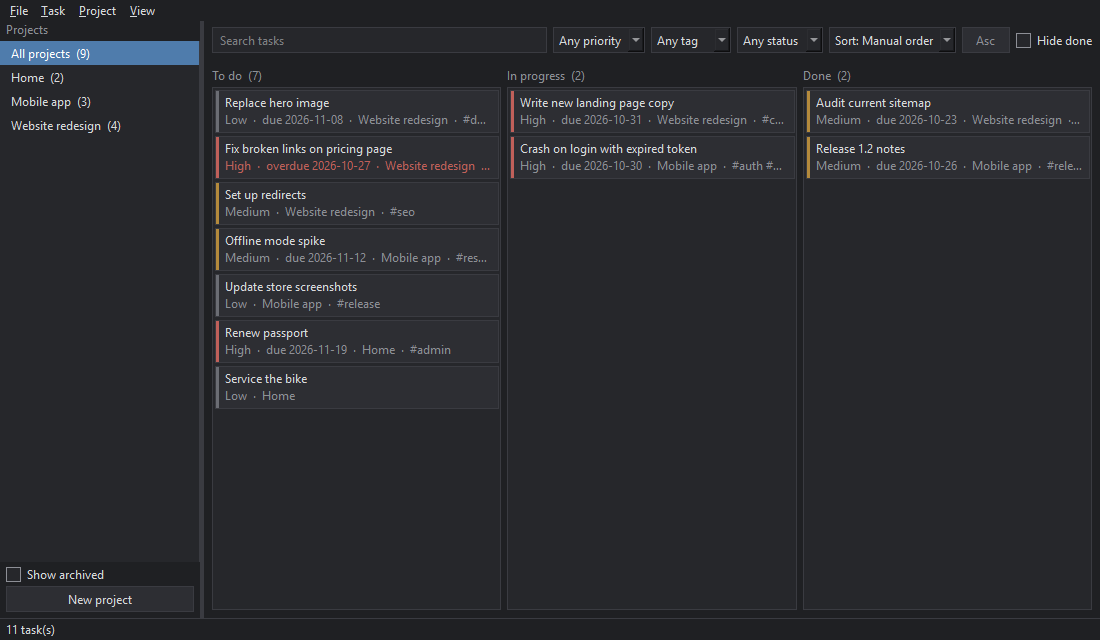
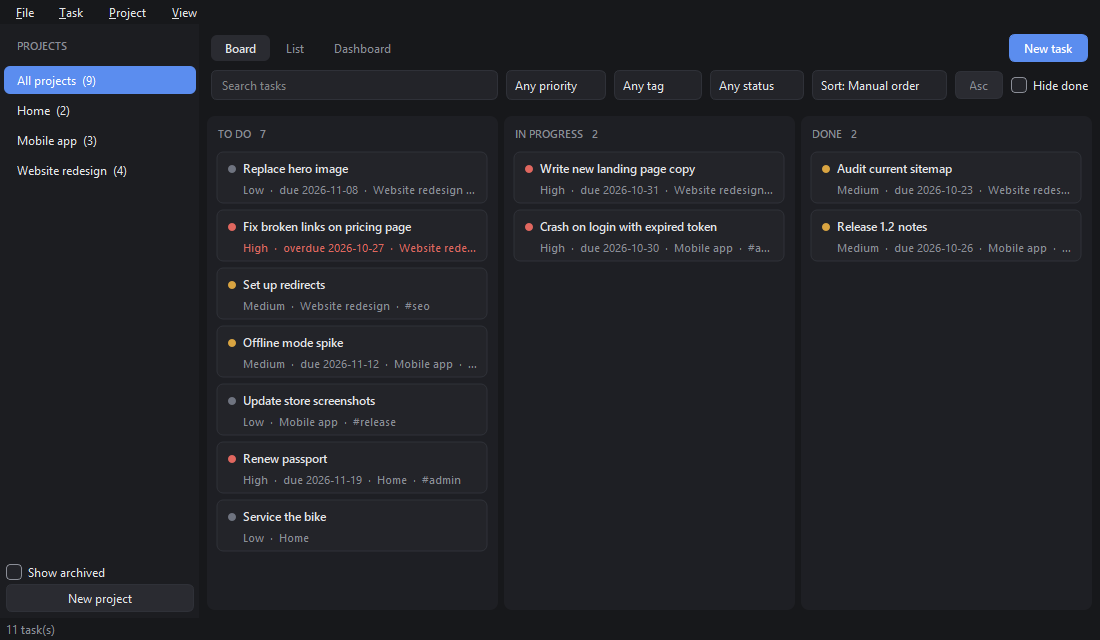
Refresh UI: toolbar view switch, rounded cards, column panels, softer theme

diff --git a/taskflow/ui/theme.py b/taskflow/ui/theme.py
@@ -5,68 +5,87 @@ from PySide6.QtGui import QFont
 from PySide6.QtWidgets import QApplication
 
 PALETTES: dict[str, dict[str, str]] = {
-    "Dark": dict(window="#1f2023", base="#26272b", alt="#2d2e33", text="#d8d9dc", muted="#8d8f96",
-                 border="#3a3b41", accent="#4f7cac", accent_text="#ffffff", danger="#c0605a",
-                 warn="#b48a3c", low="#6b6d74"),
-    "Graphite": dict(window="#2b2b2b", base="#323232", alt="#3a3a3a", text="#dcdcdc", muted="#9a9a9a",
-                     border="#454545", accent="#6a8f6a", accent_text="#ffffff", danger="#c26a5f",
-                     warn="#b8914a", low="#777777"),
-    "Light": dict(window="#f1f1f2", base="#ffffff", alt="#f7f7f8", text="#222326", muted="#6c6e75",
-                  border="#cfd0d4", accent="#3b6ea5", accent_text="#ffffff", danger="#b3433c",
-                  warn="#946f1f", low="#9a9ca3"),
+    "Dark": dict(window="#17181b", sidebar="#1c1d21", panel="#1e1f24", base="#232429", alt="#2a2b31",
+                 hover="#30323a", text="#e4e5e8", muted="#8b8e97", border="#2f3138", accent="#5b8def",
+                 accent_text="#ffffff", danger="#e0675f", warn="#d9a441", low="#6f7480"),
+    "Graphite": dict(window="#232323", sidebar="#282828", panel="#2a2a2a", base="#303030", alt="#383838",
+                     hover="#424242", text="#e6e6e6", muted="#9a9a9a", border="#3d3d3d", accent="#5fa586",
+                     accent_text="#ffffff", danger="#e0705f", warn="#d9a441", low="#7a7a7a"),
+    "Light": dict(window="#f5f6f8", sidebar="#eceef2", panel="#eceef2", base="#ffffff", alt="#ffffff",
+                  hover="#e4e7ec", text="#1d2026", muted="#6b7280", border="#d9dce2", accent="#3b73e0",
+                  accent_text="#ffffff", danger="#cc4b43", warn="#b07d12", low="#9aa0ab"),
 }
 
 
 def apply_theme(app: QApplication, name: str) -> dict[str, str]:
     c = PALETTES.get(name, PALETTES["Dark"])
     app.setStyle("Fusion")
-    font = QFont(app.font())
-    font.setPointSize(9)
+    font = QFont("Segoe UI", 10)
+    font.setStyleHint(QFont.SansSerif)
     app.setFont(font)
     app.setStyleSheet(f"""
     QWidget {{ background: {c['window']}; color: {c['text']}; }}
     QLabel {{ background: transparent; }}
     QLabel#muted {{ color: {c['muted']}; }}
-    QLabel#statValue {{ font-size: 15pt; }}
-    QFrame#tile {{ background: {c['base']}; border: 1px solid {c['border']}; border-radius: 3px; }}
+    QLabel#section {{ color: {c['muted']}; font-size: 8pt; font-weight: 600; padding: 2px 0; }}
+    QLabel#statValue {{ font-size: 18pt; font-weight: 600; }}
+    QFrame#tile {{ background: {c['base']}; border: 1px solid {c['border']}; border-radius: 8px; }}
     QFrame#tile QLabel {{ background: transparent; }}
+    QWidget#sidebarBox {{ background: {c['sidebar']}; }}
+    QWidget#toolbar, QWidget#filterBar {{ background: {c['window']}; }}
+    QWidget#columnPanel {{ background: {c['panel']}; border-radius: 8px; }}
+    QWidget#columnPanel QLabel {{ background: transparent; }}
     QLineEdit, QPlainTextEdit, QComboBox, QDateEdit, QKeySequenceEdit {{
-        background: {c['base']}; border: 1px solid {c['border']}; padding: 3px 5px;
+        background: {c['base']}; border: 1px solid {c['border']}; border-radius: 6px; padding: 5px 8px;
         selection-background-color: {c['accent']}; selection-color: {c['accent_text']}; }}
     QLineEdit:focus, QPlainTextEdit:focus, QComboBox:focus, QDateEdit:focus {{ border-color: {c['accent']}; }}
+    QComboBox::drop-down {{ border: none; width: 18px; }}
     QComboBox QAbstractItemView {{ background: {c['base']}; selection-background-color: {c['accent']};
-        selection-color: {c['accent_text']}; border: 1px solid {c['border']}; }}
-    QListWidget, QTableWidget {{ background: {c['base']}; border: 1px solid {c['border']};
+        selection-color: {c['accent_text']}; border: 1px solid {c['border']}; outline: 0; }}
+    QListWidget, QTableWidget {{ background: {c['base']}; border: 1px solid {c['border']}; border-radius: 8px;
         alternate-background-color: {c['alt']}; gridline-color: {c['border']}; outline: 0; }}
-    QListWidget#sidebar {{ border: none; border-right: 1px solid {c['border']}; }}
-    QListWidget#sidebar::item {{ padding: 4px 8px; }}
-    QListWidget#sidebar::item:selected, QTableWidget::item:selected {{
-        background: {c['accent']}; color: {c['accent_text']}; }}
-    QHeaderView::section {{ background: {c['alt']}; color: {c['muted']}; border: none;
-        border-right: 1px solid {c['border']}; border-bottom: 1px solid {c['border']}; padding: 4px 6px; }}
-    QPushButton {{ background: {c['alt']}; border: 1px solid {c['border']}; padding: 4px 12px; }}
-    QPushButton:hover {{ border-color: {c['muted']}; }}
-    QPushButton:default {{ background: {c['accent']}; color: {c['accent_text']}; border-color: {c['accent']}; }}
+    QListWidget#column {{ background: transparent; border: none; }}
+    QListWidget#sidebar {{ background: {c['sidebar']}; border: none; border-radius: 0; padding: 4px; }}
+    QListWidget#sidebar::item {{ padding: 6px 10px; border-radius: 6px; margin: 1px 0; }}
+    QListWidget#sidebar::item:hover {{ background: {c['hover']}; }}
+    QListWidget#sidebar::item:selected {{ background: {c['accent']}; color: {c['accent_text']}; }}
+    QTableWidget::item {{ padding: 4px 6px; }}
+    QTableWidget::item:selected {{ background: {c['accent']}; color: {c['accent_text']}; }}
+    QHeaderView::section {{ background: {c['base']}; color: {c['muted']}; border: none;
+        border-bottom: 1px solid {c['border']}; padding: 6px 8px; font-weight: 600; }}
+    QPushButton {{ background: {c['alt']}; border: 1px solid {c['border']}; border-radius: 6px; padding: 5px 14px; }}
+    QPushButton:hover {{ background: {c['hover']}; }}
+    QPushButton:default, QPushButton#primary {{ background: {c['accent']}; color: {c['accent_text']};
+        border-color: {c['accent']}; font-weight: 600; }}
+    QPushButton#primary:hover {{ background: {c['accent']}; border-color: {c['text']}; }}
     QPushButton:disabled {{ color: {c['muted']}; }}
+    QPushButton#seg {{ background: transparent; border: none; border-radius: 6px; padding: 5px 14px;
+        color: {c['muted']}; }}
+    QPushButton#seg:hover {{ background: {c['hover']}; color: {c['text']}; }}
+    QPushButton#seg:checked {{ background: {c['alt']}; color: {c['text']}; font-weight: 600; }}
     QCheckBox {{ background: transparent; spacing: 6px; }}
-    QCheckBox::indicator {{ width: 13px; height: 13px; background: {c['base']}; border: 1px solid {c['muted']}; }}
+    QCheckBox::indicator {{ width: 14px; height: 14px; background: {c['base']}; border: 1px solid {c['muted']};
+        border-radius: 4px; }}
     QCheckBox::indicator:checked {{ background: {c['accent']}; border-color: {c['accent']}; }}
-    QTableWidget::indicator {{ width: 13px; height: 13px; background: {c['window']}; border: 1px solid {c['muted']}; }}
+    QTableWidget::indicator {{ width: 14px; height: 14px; background: {c['window']}; border: 1px solid {c['muted']};
+        border-radius: 4px; }}
     QTableWidget::indicator:checked {{ background: {c['accent']}; border-color: {c['accent']}; }}
     QMenuBar {{ background: {c['window']}; }}
+    QMenuBar::item {{ padding: 4px 10px; border-radius: 4px; }}
     QMenuBar::item:selected, QMenu::item:selected {{ background: {c['accent']}; color: {c['accent_text']}; }}
-    QMenu {{ background: {c['base']}; border: 1px solid {c['border']}; }}
-    QMenu::item {{ padding: 4px 22px 4px 18px; }}
+    QMenu {{ background: {c['base']}; border: 1px solid {c['border']}; padding: 4px; }}
+    QMenu::item {{ padding: 5px 24px 5px 18px; border-radius: 4px; }}
     QMenu::item:disabled {{ color: {c['muted']}; }}
-    QMenu::separator {{ height: 1px; background: {c['border']}; margin: 3px 0; }}
-    QStatusBar {{ border-top: 1px solid {c['border']}; }}
-    QProgressBar {{ background: {c['base']}; border: 1px solid {c['border']}; text-align: center; height: 14px; }}
-    QProgressBar::chunk {{ background: {c['accent']}; }}
-    QScrollBar:vertical {{ width: 10px; background: transparent; }}
-    QScrollBar:horizontal {{ height: 10px; background: transparent; }}
-    QScrollBar::handle {{ background: {c['border']}; min-height: 24px; min-width: 24px; }}
+    QMenu::separator {{ height: 1px; background: {c['border']}; margin: 4px 0; }}
+    QStatusBar {{ background: {c['window']}; color: {c['muted']}; }}
+    QProgressBar {{ background: {c['alt']}; border: none; border-radius: 5px; text-align: center; height: 16px; }}
+    QProgressBar::chunk {{ background: {c['accent']}; border-radius: 5px; }}
+    QScrollBar:vertical {{ width: 10px; background: transparent; margin: 2px; }}
+    QScrollBar:horizontal {{ height: 10px; background: transparent; margin: 2px; }}
+    QScrollBar::handle {{ background: {c['border']}; min-height: 24px; min-width: 24px; border-radius: 4px; }}
+    QScrollBar::handle:hover {{ background: {c['muted']}; }}
     QScrollBar::add-line, QScrollBar::sub-line {{ width: 0; height: 0; }}
-    QSplitter::handle {{ background: {c['border']}; }}
-    QToolTip {{ background: {c['base']}; color: {c['text']}; border: 1px solid {c['border']}; }}
+    QSplitter::handle {{ background: {c['window']}; width: 1px; }}
+    QToolTip {{ background: {c['base']}; color: {c['text']}; border: 1px solid {c['border']}; padding: 4px; }}
     """)
     return c

diff --git a/taskflow/ui/views.py b/taskflow/ui/views.py
@@ -2,7 +2,7 @@
 from __future__ import annotations
 
 from PySide6.QtCore import QModelIndex, QPoint, QRect, QSize, Qt, Signal
-from PySide6.QtGui import QColor, QPainter, QPen
+from PySide6.QtGui import QColor, QFont, QPainter, QPen
 from PySide6.QtWidgets import (
     QAbstractItemView, QFrame, QGridLayout, QHBoxLayout, QHeaderView, QLabel, QListWidget,
     QListWidgetItem, QProgressBar, QStyle, QStyledItemDelegate, QTableWidget, QTableWidgetItem,
@@ -33,26 +33,38 @@ class CardDelegate(QStyledItemDelegate):
     colors: dict[str, str] = {}
 
     def sizeHint(self, option, index: QModelIndex) -> QSize:
-        return QSize(option.rect.width(), 46)
+        return QSize(option.rect.width(), 58)
 
     def paint(self, painter: QPainter, option, index: QModelIndex) -> None:
         c = self.colors
-        r = option.rect.adjusted(2, 2, -2, -2)
+        r = option.rect.adjusted(2, 3, -2, -3)
         selected = bool(option.state & QStyle.State_Selected)
+        hovered = bool(option.state & QStyle.State_MouseOver)
         painter.save()
+        painter.setRenderHint(QPainter.Antialiasing)
         painter.setPen(QPen(QColor(c["accent"] if selected else c["border"])))
-        painter.setBrush(QColor(c["alt"]))
-        painter.drawRect(r)
-        stripe = {3: c["danger"], 2: c["warn"]}.get(index.data(PRIORITY_ROLE), c["low"])
-        painter.fillRect(QRect(r.left() + 1, r.top() + 1, 3, r.height() - 1), QColor(stripe))
-        text = r.adjusted(10, 4, -6, -4)
+        painter.setBrush(QColor(c["hover"] if hovered and not selected else c["base"]))
+        painter.drawRoundedRect(r.adjusted(0, 0, -1, -1), 6, 6)
+        dot = {3: c["danger"], 2: c["warn"]}.get(index.data(PRIORITY_ROLE), c["low"])
+        painter.setPen(Qt.NoPen)
+        painter.setBrush(QColor(dot))
+        painter.drawEllipse(r.left() + 11, r.top() + 13, 8, 8)
+        text = QRect(r.left() + 26, r.top() + 8, r.width() - 36, r.height() - 14)
         fm = painter.fontMetrics()
+        title_font = painter.font()
+        title_font.setWeight(QFont.DemiBold)
+        painter.setFont(title_font)
         painter.setPen(QColor(c["text"]))
         painter.drawText(text.left(), text.top() + fm.ascent(),
-                         fm.elidedText(index.data(Qt.DisplayRole), Qt.ElideRight, text.width()))
+                         painter.fontMetrics().elidedText(index.data(Qt.DisplayRole), Qt.ElideRight, text.width()))
+        small = painter.font()
+        small.setWeight(QFont.Normal)
+        small.setPointSizeF(max(small.pointSizeF() - 1, 7))
+        painter.setFont(small)
         painter.setPen(QColor(c["danger"] if index.data(OVERDUE_ROLE) else c["muted"]))
-        painter.drawText(text.left(), text.bottom() - fm.descent(),
-                         fm.elidedText(index.data(SUB_ROLE), Qt.ElideRight, text.width()))
+        sm = painter.fontMetrics()
+        painter.drawText(text.left(), text.bottom() - sm.descent(),
+                         sm.elidedText(index.data(SUB_ROLE), Qt.ElideRight, text.width()))
         painter.restore()
 
 
@@ -63,6 +75,8 @@ class KanbanColumn(QListWidget):
     def __init__(self, status: str):
         super().__init__()
         self.status = status
+        self.setObjectName("column")
+        self.setMouseTracking(True)
         self.setItemDelegate(CardDelegate(self))
         self.setSelectionMode(QAbstractItemView.SingleSelection)
         self.setDragDropMode(QAbstractItemView.DragDrop)
@@ -114,12 +128,15 @@ class BoardView(QWidget):
             col.setContextMenuPolicy(Qt.CustomContextMenu)
             col.customContextMenuRequested.connect(lambda p, c=col: self._context(c, p))
             header = QLabel()
-            header.setObjectName("muted")
-            box = QVBoxLayout()
-            box.setSpacing(4)
+            header.setObjectName("section")
+            panel = QWidget()
+            panel.setObjectName("columnPanel")
+            box = QVBoxLayout(panel)
+            box.setContentsMargins(8, 8, 8, 8)
+            box.setSpacing(6)
             box.addWidget(header)
             box.addWidget(col, 1)
-            layout.addLayout(box, 1)
+            layout.addWidget(panel, 1)
             self.columns[status] = col
             self.headers[status] = header
 
@@ -163,7 +180,7 @@ class BoardView(QWidget):
             if t.id == keep:
                 self.columns[t.status].setCurrentItem(item)
         for status, header in self.headers.items():
-            header.setText(f"{STATUS_LABELS[status]}  ({counts[status]})")
+            header.setText(f"{STATUS_LABELS[status].upper()}   {counts[status]}")
 
     def set_colors(self, colors: dict[str, str]) -> None:
         CardDelegate.colors = colors
@@ -294,8 +311,8 @@ class DashboardView(QWidget):
             holder = QWidget()
             v = QVBoxLayout(holder)
             v.setContentsMargins(0, 8, 0, 0)
-            head = QLabel(title)
-            head.setObjectName("muted")
+            head = QLabel(title.upper())
+            head.setObjectName("section")
             v.addWidget(head)
             for w in rows or [QLabel("Nothing to show.")]:
                 v.addWidget(w)

diff --git a/taskflow/ui/main_window.py b/taskflow/ui/main_window.py
@@ -10,7 +10,7 @@ from typing import Callable
 from PySide6.QtCore import QByteArray, QObject, QRunnable, Qt, QThreadPool, QTimer, Signal
 from PySide6.QtGui import QAction, QColor, QKeySequence
 from PySide6.QtWidgets import (
-    QApplication, QCheckBox, QComboBox, QFileDialog, QHBoxLayout, QLabel, QLineEdit, QListWidget,
+    QApplication, QButtonGroup, QCheckBox, QComboBox, QFileDialog, QHBoxLayout, QLabel, QLineEdit, QListWidget,
     QListWidgetItem, QMainWindow, QMenu, QMessageBox, QPushButton, QSplitter, QStackedWidget,
     QVBoxLayout, QWidget,
 )
@@ -80,6 +80,7 @@ class MainWindow(QMainWindow):
         rl = QVBoxLayout(right)
         rl.setContentsMargins(0, 0, 0, 0)
         rl.setSpacing(0)
+        rl.addWidget(self._build_toolbar())
         rl.addWidget(self.filter_bar)
         rl.addWidget(self.stack, 1)
         split = QSplitter()
@@ -119,8 +120,10 @@ class MainWindow(QMainWindow):
         v = QVBoxLayout(self.sidebar_box)
         v.setContentsMargins(0, 0, 0, 6)
         v.setSpacing(4)
-        title = QLabel("  Projects")
-        title.setObjectName("muted")
+        self.sidebar_box.setObjectName("sidebarBox")
+        title = QLabel("PROJECTS")
+        title.setObjectName("section")
+        title.setContentsMargins(14, 12, 0, 2)
         v.addWidget(title)
         v.addWidget(self.sidebar, 1)
         add = QPushButton("New project")
@@ -135,10 +138,37 @@ class MainWindow(QMainWindow):
         row2.addWidget(add)
         v.addLayout(row2)
 
+    def _build_toolbar(self) -> QWidget:
+        bar = QWidget()
+        bar.setObjectName("toolbar")
+        h = QHBoxLayout(bar)
+        h.setContentsMargins(12, 10, 12, 4)
+        h.setSpacing(2)
+        self.view_buttons: dict[str, QPushButton] = {}
+        group = QButtonGroup(self)
+        for name in VIEWS:
+            btn = QPushButton(name.capitalize())
+            btn.setObjectName("seg")
+            btn.setCheckable(True)
+            btn.setCursor(Qt.PointingHandCursor)
+            btn.clicked.connect(lambda _=False, n=name: self.set_view(n))
+            group.addButton(btn)
+            h.addWidget(btn)
+            self.view_buttons[name] = btn
+        h.addStretch(1)
+        new = QPushButton("New task")
+        new.setObjectName("primary")
+        new.setCursor(Qt.PointingHandCursor)
+        new.clicked.connect(lambda: self.new_task())
+        h.addWidget(new)
+        return bar
+
     def _build_filters(self) -> None:
         self.filter_bar = QWidget()
+        self.filter_bar.setObjectName("filterBar")
         h = QHBoxLayout(self.filter_bar)
-        h.setContentsMargins(8, 6, 8, 6)
+        h.setContentsMargins(12, 4, 12, 8)
+        h.setSpacing(8)
         self.search = QLineEdit()
         self.search.setPlaceholderText("Search tasks")
         self.search.setClearButtonEnabled(True)
@@ -306,6 +336,7 @@ class MainWindow(QMainWindow):
     # -- refresh -------------------------------------------------------
     def set_view(self, name: str) -> None:
         self.stack.setCurrentIndex(VIEWS.index(name) if name in VIEWS else 0)
+        self.view_buttons[VIEWS[self.stack.currentIndex()]].setChecked(True)
         board, lst = self.stack.currentIndex() == 0, self.stack.currentIndex() == 1
         self.sort.setEnabled(lst)
         self.descending.setEnabled(lst)
